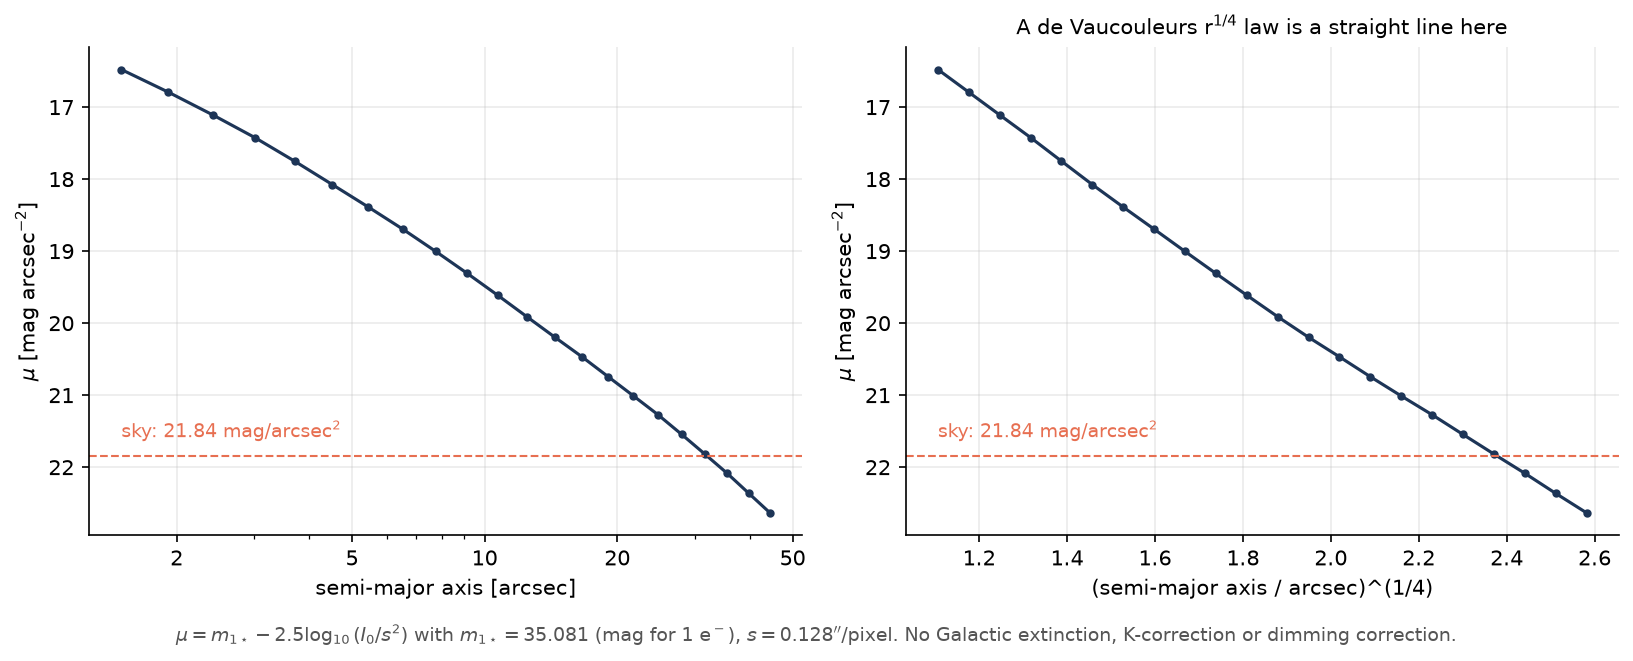
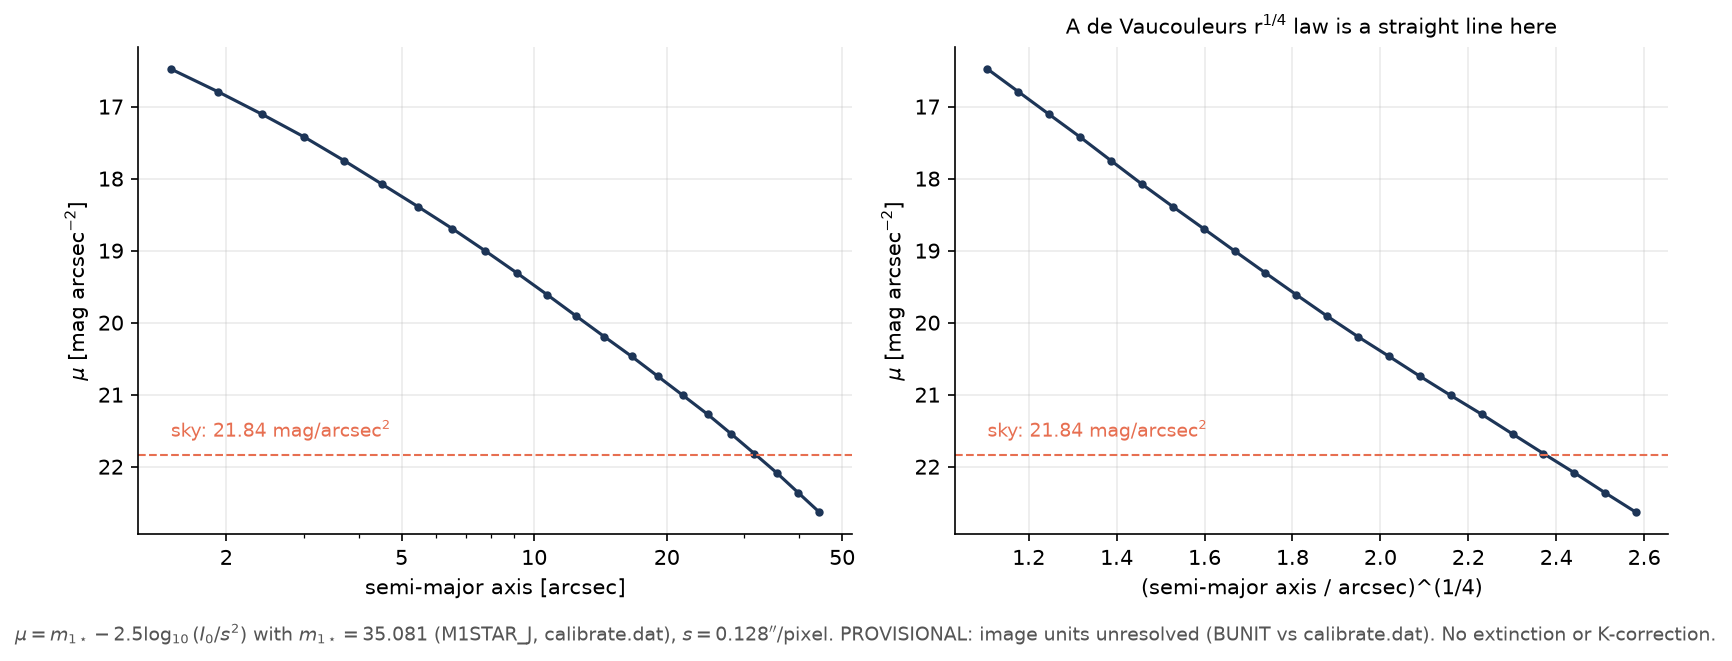
Docs: document ELLIPROF's published role in SBF analyses; flag example units
Cite Jordan et al. 2004, Mei et al. 2005a and Jensen et al. 2021, which
state that ELLIPROF produced the smooth galaxy models in their SBF
analyses and identify it as the isophote-fitting software of the Tonry
et al. 1997 SBF survey. Keep the scope boundary: the power spectrum,
contaminant corrections, calibration and distance are downstream steps.
Mark the UGC 12517 surface-brightness calibration as provisional: the
image BUNIT and calibrate.dat disagree about the pixel units.

diff --git a/docs/scripts/make_profile_plots.py b/docs/scripts/make_profile_plots.py
@@ -6,8 +6,11 @@ level on the outer profile.
 
 The calibration numbers come from examples/u12517/calibrate.dat (from the
 original analysis; elliprof itself does not read that file):
-    SECPIX = 0.128 arcsec/pixel,  M1STAR = 35.081 mag for 1 e- (net),
-    SKY = 3250 e/pixel (21.84 mag/arcsec^2).
+    SECPIX = 0.128 arcsec/pixel,  M1STAR_J = 35.081 ("m for 1e- net"),
+    SKY_J = 3250 ("e/pixel"), SKYMAG_J = 21.84 mag/arcsec^2.
+PROVISIONAL: the image header says BUNIT = ELECTRONS/S, while these numbers
+are consistent with pixel values in total electrons.  Unresolved; see
+docs/science/surface-photometry.md.
 """
 
 import matplotlib.pyplot as plt
@@ -82,8 +85,9 @@ def surface_brightness():
     axes[1].set_title("A de Vaucouleurs r$^{1/4}$ law is a straight line here",
                       fontsize=10)
     fig.text(0.5, -0.03, r"$\mu = m_{1\star} - 2.5\log_{10}(I_0 / s^2)$ with "
-             r"$m_{1\star}=35.081$ (mag for 1 e$^-$), $s = 0.128''$/pixel. "
-             "No Galactic extinction, K-correction or dimming correction.",
+             r"$m_{1\star}=35.081$ (M1STAR_J, calibrate.dat), "
+             r"$s = 0.128''$/pixel. PROVISIONAL: image units unresolved "
+             "(BUNIT vs calibrate.dat). No extinction or K-correction.",
              ha="center", fontsize=9, color="#555555")
     fig.tight_layout()
     C.save(fig, "surface_brightness_u12517.png")

diff --git a/docs/sbf/history.md b/docs/sbf/history.md
@@ -38,7 +38,8 @@ connecting $\bar M$ to age and metallicity.
 
 **HST/ACS (2005–2010).** John Blakeslee and collaborators brought SBF to
 the Advanced Camera for Surveys. They set out the reduction procedures
-and calibration (Mei et al. 2005a, 2005b), mapped the 3-D structure of the
+(Jordán et al. 2004; Mei et al. 2005a) and calibration (Mei et al.
+2005b), mapped the 3-D structure of the
 Virgo cluster (Mei et al. 2007), measured the Fornax–Virgo relative
 distance precisely (Blakeslee et al. 2009), and calibrated the F814W
 bandpass (Blakeslee et al. 2010).
@@ -59,12 +60,36 @@ distances for bright galaxies in Virgo and beyond (Cantiello et al.
 describe an approved JWST program to tie the SBF zeropoint to
 tip-of-the-red-giant-branch distances.
 
-!!! note "ELLIPROF history is separate"
-    ELLIPROF was originally developed by John Tonry as part of MONSTA, an
-    image-analysis package. This page is the history of the SBF
-    *method*. It does not imply that any particular study above used
-    ELLIPROF. See [About and credits](../about.md) for ELLIPROF's own
-    history.
+## ELLIPROF in SBF analyses
+
+ELLIPROF, originally developed by John Tonry as part of MONSTA, has been
+used as the galaxy-modelling component of SBF analyses. It fits and
+subtracts the smooth galaxy light, producing the galaxy-subtracted image
+that the SBF processing then works on. It does not itself measure the
+fluctuations or the distance. The evidence, in the papers' own words:
+
+- Tonry et al. (1997), the I-band SBF Survey, describe the step without
+  naming the program: "we fit a galaxy model to the summed, cleaned,
+  sky-subtracted galaxy image and subtract it".
+- Jordán et al. (2004), ACS Virgo Cluster Survey II: "Galaxies were
+  modeled using the ELLIPROF program described in the SBF survey of
+  Tonry et al. (1997)."
+- Mei et al. (2005a), ACS Virgo Cluster Survey IV: "We fit a smooth model
+  for each galaxy in both filters using ELLIPROF (the isophotal fitting
+  software that has been used for the SBF survey by Tonry et al. 1997)
+  and then subtract the models from the original images."
+- Jensen et al. (2021), infrared SBF distances with HST/WFC3: "We made an
+  elliptical model of each galaxy using the ELLIPROF routine"; after
+  background subtraction the galaxies were fitted "using the ELLIPROF
+  isophotal fitting routine a second time", and the models were saved
+  "to normalize the SBF power spectrum". The paper lists ELLIPROF among
+  its software.
+
+Quotations are from the arXiv versions of these papers
+(astro-ph/9609113, astro-ph/0406433, astro-ph/0501325, 2105.08299).
+Other papers on this page are not claimed to have used ELLIPROF unless
+listed here. See [ELLIPROF's role in SBF](elliprof-role.md) and
+[About and credits](../about.md).
 
 ## References
 
@@ -82,7 +107,7 @@ records.
 - Tonry, J. L., Ajhar, E. A. & Luppino, G. A. 1990, *Observations of surface-brightness fluctuations in Virgo*, AJ, 100, 1416. [doi:10.1086/115606](https://doi.org/10.1086/115606)
 - Tonry, J. L. 1991, *Surface brightness fluctuations: a bridge from M31 to the Hubble constant*, ApJ, 373, L1. [doi:10.1086/186037](https://doi.org/10.1086/186037)
 - Ajhar, E. A. & Tonry, J. L. 1994, *Surface brightness fluctuations in globular clusters and stellar populations in galaxies*, ApJ, 429, 557. [doi:10.1086/174344](https://doi.org/10.1086/174344)
-- Tonry, J. L., Blakeslee, J. P., Ajhar, E. A. & Dressler, A. 1997, *The SBF Survey of Galaxy Distances. I.*, ApJ, 475, 399. [doi:10.1086/303576](https://doi.org/10.1086/303576)
+- Tonry, J. L., Blakeslee, J. P., Ajhar, E. A. & Dressler, A. 1997, *The SBF Survey of Galaxy Distances. I. Sample Selection, Photometric Calibration, and the Hubble Constant*, ApJ, 475, 399. [doi:10.1086/303576](https://doi.org/10.1086/303576) (arXiv:astro-ph/9609113)
 - Tonry, J. L., Blakeslee, J. P., Ajhar, E. A. & Dressler, A. 2000, *The Surface Brightness Fluctuation Survey of Galaxy Distances. II. Local and Large-Scale Flows*, ApJ, 530, 625. [doi:10.1086/308409](https://doi.org/10.1086/308409)
 - Tonry, J. L., Dressler, A., Blakeslee, J. P., et al. 2001, *The SBF Survey of Galaxy Distances. IV. SBF Magnitudes, Colors, and Distances*, ApJ, 546, 681. [doi:10.1086/318301](https://doi.org/10.1086/318301)
 
@@ -94,12 +119,13 @@ records.
 - Jensen, J. B., Tonry, J. L., Thompson, R. I., et al. 2001, *The Infrared Surface Brightness Fluctuation Hubble Constant*, ApJ, 550, 503. [doi:10.1086/319819](https://doi.org/10.1086/319819)
 - Jensen, J. B., Tonry, J. L., Barris, B. J., et al. 2003, *Measuring Distances and Probing the Unresolved Stellar Populations of Galaxies Using Infrared Surface Brightness Fluctuations*, ApJ, 583, 712. [doi:10.1086/345430](https://doi.org/10.1086/345430)
 - Jensen, J. B., Blakeslee, J. P., Gibson, Z., et al. 2015, *Measuring Infrared Surface Brightness Fluctuation Distances with HST WFC3: Calibration and Advice*, ApJ, 808, 91. [doi:10.1088/0004-637X/808/1/91](https://doi.org/10.1088/0004-637X/808/1/91)
-- Jensen, J. B., Blakeslee, J. P., Ma, C.-P., et al. 2021, *Infrared Surface Brightness Fluctuation Distances for MASSIVE and Type Ia Supernova Host Galaxies*, ApJS, 255, 21. [doi:10.3847/1538-4365/ac01e7](https://doi.org/10.3847/1538-4365/ac01e7)
+- Jensen, J. B., Blakeslee, J. P., Ma, C.-P., et al. 2021, *Infrared Surface Brightness Fluctuation Distances for MASSIVE and Type Ia Supernova Host Galaxies*, ApJS, 255, 21. [doi:10.3847/1538-4365/ac01e7](https://doi.org/10.3847/1538-4365/ac01e7) (arXiv:2105.08299)
 
 **Stellar populations, HST/ACS and the Hubble constant (Blakeslee and collaborators)**
 
 - Blakeslee, J. P., Vazdekis, A. & Ajhar, E. A. 2001, *Stellar populations and surface brightness fluctuations: new observations and models*, MNRAS, 320, 193. [doi:10.1046/j.1365-8711.2001.03937.x](https://doi.org/10.1046/j.1365-8711.2001.03937.x)
-- Mei, S., Blakeslee, J. P., Tonry, J. L., et al. 2005a, *The ACS Virgo Cluster Survey. IV. Data Reduction Procedures for Surface Brightness Fluctuation Measurements with the Advanced Camera for Surveys*, ApJS, 156, 113. [doi:10.1086/426544](https://doi.org/10.1086/426544)
+- Jordán, A., Blakeslee, J. P., Peng, E. W., et al. 2004, *The ACS Virgo Cluster Survey. II. Data Reduction Procedures*, ApJS, 154, 509. [doi:10.1086/422977](https://doi.org/10.1086/422977) (arXiv:astro-ph/0406433)
+- Mei, S., Blakeslee, J. P., Tonry, J. L., et al. 2005a, *The ACS Virgo Cluster Survey. IV. Data Reduction Procedures for Surface Brightness Fluctuation Measurements with the Advanced Camera for Surveys*, ApJS, 156, 113. [doi:10.1086/426544](https://doi.org/10.1086/426544) (arXiv:astro-ph/0501325)
 - Mei, S., Blakeslee, J. P., Tonry, J. L., et al. 2005b, *The ACS Virgo Cluster Survey. V. Surface Brightness Fluctuation Calibration for Giant and Dwarf Early-Type Galaxies*, ApJ, 625, 121. [doi:10.1086/429554](https://doi.org/10.1086/429554)
 - Mei, S., Blakeslee, J. P., Côté, P., et al. 2007, *The ACS Virgo Cluster Survey. XIII. SBF Distance Catalog and the Three-dimensional Structure of the Virgo Cluster*, ApJ, 655, 144. [doi:10.1086/509598](https://doi.org/10.1086/509598)
 - Blakeslee, J. P., Jordán, A., Mei, S., et al. 2009, *The ACS Fornax Cluster Survey. V. Measurement and Recalibration of Surface Brightness Fluctuations and a Precise Value of the Fornax–Virgo Relative Distance*, ApJ, 694, 556. [doi:10.1088/0004-637X/694/1/556](https://doi.org/10.1088/0004-637X/694/1/556)

diff --git a/docs/sbf/elliprof-role.md b/docs/sbf/elliprof-role.md
@@ -17,6 +17,51 @@ ELLIPROF is one component of an SBF measurement: the galaxy model, and
 through it the residual. The rest is done by other software and by the
 researcher, and needs judgement that no single program should hide.
 
+## ELLIPROF in published SBF analyses
+
+ELLIPROF has historically been used as the **galaxy-modelling component**
+of surface brightness fluctuation analyses. It fits and subtracts the
+smooth galaxy light distribution, producing the galaxy-subtracted image
+used in the subsequent SBF processing. The power-spectrum measurement,
+the contaminant corrections, the calibration and the distance
+determination are separate, downstream steps.
+
+The published record:
+
+- **The I-band SBF Survey.** Tonry et al. (1997) describe the step as
+  fitting "a galaxy model to the summed, cleaned, sky-subtracted galaxy
+  image" and subtracting it. The ACS Virgo Cluster Survey papers identify
+  that software as ELLIPROF. Jordán et al. (2004) write that "galaxies
+  were modeled using the ELLIPROF program described in the SBF survey of
+  Tonry et al. (1997)". Mei et al. (2005a) call ELLIPROF "the isophotal
+  fitting software that has been used for the SBF survey by Tonry et al.
+  1997".
+- **The ACS Virgo Cluster Survey (HST/ACS).** Jordán et al. (2004) and
+  Mei et al. (2005a) fitted a smooth model to each galaxy with ELLIPROF
+  and subtracted it. They then removed the remaining large-scale
+  residuals with a SExtractor background model before detecting sources
+  and measuring the SBF.
+- **Infrared SBF with HST/WFC3 (the MASSIVE and Type Ia supernova host
+  galaxies).** Jensen et al. (2021) made an elliptical model of each
+  galaxy "using the ELLIPROF routine", first to help determine the
+  background level and then, after background subtraction, as the smooth
+  galaxy model. They saved that model "for later use to normalize the SBF
+  power spectrum", and list ELLIPROF among the software used.
+
+In all of these, ELLIPROF supplies the galaxy model. The SBF measurement
+itself is the downstream chain described on
+[Power spectrum and distance](power-spectrum.md) and
+[Workflow and cautions](workflow.md). The full references are on
+[History and references](history.md#elliprof-in-sbf-analyses).
+
+!!! note "The same program"
+    The `elliprof` package runs the original ELLIPROF fitting and model
+    code, compiled unchanged (see
+    [How elliprof is built](../reference/architecture.md)). The published
+    analyses above used ELLIPROF within their own pipelines and
+    environments. This package makes the same fitting and model code
+    available on its own. It does not reproduce those pipelines.
+
 ## Why the galaxy model matters
 
 The fluctuations are tiny compared with the galaxy itself. In the
@@ -35,10 +80,13 @@ less. Before they can be measured, the smooth galaxy must be removed
 
 A model built from fitted isophotes follows the galaxy's changing
 ellipticity, orientation and boxy/disky shape with radius, so it
-removes the galaxy closely. How SBF studies build and subtract their
-galaxy models is described in their data-reduction papers, for example
-Mei et al. (2005a) for HST/ACS and Jensen et al. (2015) for HST/WFC3-IR.
-See [History and references](history.md).
+removes the galaxy closely. The published analyses above also describe
+where such models fall short: Jordán et al. (2004) report that for seven
+galaxies with strong disk components ELLIPROF could not produce
+acceptable models. Jensen et al. (2021) fitted the remaining residual
+patterns (from neighbouring galaxies, dust lanes, shells, spiral
+structure or bars) with a spline and avoided the affected regions and
+low wavenumbers.
 
 !!! advanced "Model harmonics and the residual"
     Include the 3rd- and 4th-order terms in the model (the default,

diff --git a/docs/science/surface-photometry.md b/docs/science/surface-photometry.md
@@ -40,14 +40,29 @@ from the original analysis (elliprof does not read it):
 | | |
 |---|---|
 | pixel scale $s$ | 0.128″ / pixel |
-| $m_1$ for 1 electron (`M1STAR`) | 35.081 mag |
-| sky (`SKY`) | 3250 e / pixel = 21.84 mag arcsec⁻² (`SKYMAG`) |
+| `M1STAR_J` ("m for 1e- net") | 35.081 mag |
+| `M1_J` ("m for 1 e/sec") | 26.822 mag |
+| `ETIME_J` (exposure time) | 2011.7 s |
+| `SKY_J` ("e/pixel") | 3250 |
+| `SKYMAG_J` | 21.84 mag arcsec⁻² |
 
-These are consistent with each other:
-35.081 − 2.5 log₁₀(3250 / 0.128²) = 21.84. So the pixel values are
-electrons, although the image's `BUNIT` says `ELECTRONS/S`. (Its
-`M1_J` = 26.822 for 1 e/s plus 2.5 log₁₀ of the 2011.7 s exposure gives
-the same 35.081.)
+!!! warning "Unresolved: the units of the example image"
+    The image header and the calibration file do not agree on the units
+    of the pixel values.
+
+    - The FITS header says `BUNIT = 'ELECTRONS/S'`.
+    - Within `calibrate.dat`, the numbers agree with each other if the
+      pixel values are **total electrons**: 26.822 + 2.5 log₁₀(2011.7) =
+      35.081 (`M1_J` converted to `M1STAR_J`), and
+      35.081 − 2.5 log₁₀(3250 / 0.128²) = 21.84 (`SKY_J` converted to
+      `SKYMAG_J`). The sky level subtracted in the example (3246) is also
+      close to `SKY_J` (3250).
+
+    This has not been resolved. The calibrated profile below applies
+    `M1STAR_J` = 35.081 to the pixel values as they are. It is correct only
+    if the pixels are total electrons. If they are electrons per second,
+    the zeropoint is `M1_J` = 26.822, and every μ below would be 8.26 mag
+    smaller (brighter). Treat the calibrated numbers on this site as provisional.
 
 <figure markdown="span">
   ![Two plots of the surface brightness of UGC 12517 in magnitudes per
@@ -57,7 +72,8 @@ the same 35.081.)
   nearly a straight line. A dashed line marks the sky brightness, 21.84
   mag per square arcsecond, which the profile crosses at about 32
   arcseconds.](../assets/surface_brightness_u12517.png)
-  <figcaption>The calibrated UGC 12517 profile. Against r<sup>1/4</sup> it is
+  <figcaption>The UGC 12517 profile calibrated with <code>M1STAR_J</code> = 35.081
+  (provisional: see the units warning above). Against r<sup>1/4</sup> it is
   nearly straight, as for a de Vaucouleurs law. Beyond ~32″ the galaxy is
   fainter than the sky. No extinction or K-correction is applied.</figcaption>
 </figure>

diff --git a/docs/tutorials/u12517.md b/docs/tutorials/u12517.md
@@ -91,7 +91,7 @@ centres.
 ## 6. Calibrate
 
 With the calibration from the original analysis
-(`examples/u12517/calibrate.dat`: 35.081 mag for 1 electron, 0.128″
+(`examples/u12517/calibrate.dat`: `M1STAR_J` = 35.081 mag, 0.128″
 pixels), the surface brightness is
 
 $$ \mu = 35.081 - 2.5\log_{10}\!\left(\frac{I_0}{0.128^2}\right). $$
@@ -100,12 +100,15 @@ $$ \mu = 35.081 - 2.5\log_{10}\!\left(\frac{I_0}{0.128^2}\right). $$
   ![The calibrated surface-brightness profile of UGC 12517, against log
   radius and against radius to the one-quarter power, with the sky level
   marked.](../assets/surface_brightness_u12517.png)
-  <figcaption>The profile in mag/arcsec² (no extinction or K-correction). It
-  is close to an r<sup>1/4</sup> law.</figcaption>
+  <figcaption>The profile in mag/arcsec² with M1STAR_J = 35.081, provisional
+  (no extinction or K-correction). It is close to an r<sup>1/4</sup> law.</figcaption>
 </figure>
 
-See [Galaxy surface photometry](../science/surface-photometry.md) for the
-units check behind the 35.081.
+!!! warning "Provisional calibration"
+    The image header (`BUNIT = 'ELECTRONS/S'`) and `calibrate.dat` (whose
+    numbers are consistent with pixel values in total electrons) disagree
+    about the units. This is unresolved. See
+    [Galaxy surface photometry](../science/surface-photometry.md#worked-example-ugc-12517).
 
 ## 7. Test the sky
 

diff --git a/docs/about.md b/docs/about.md
@@ -27,9 +27,13 @@ The original source files keep their authorship: `elliprof.f`,
 support files by Tod R. Lauer and Richard J. Stover. See
 [THIRD_PARTY_NOTICES.md](https://github.com/ekourkchi/elliprof/blob/main/THIRD_PARTY_NOTICES.md).
 
-For the history of the surface brightness fluctuation *method*, see
-[SBF history and references](sbf/history.md). The two histories are
-separate.
+ELLIPROF has been used as the galaxy-modelling component of surface
+brightness fluctuation (SBF) analyses, from the I-band SBF Survey of
+Tonry et al. (1997) to HST studies (Jordán et al. 2004; Mei et al.
+2005a; Jensen et al. 2021). In those analyses it produced the smooth
+galaxy model and the galaxy-subtracted image. The fluctuation measurement
+and the distances came from separate, downstream steps. See
+[ELLIPROF in SBF analyses](sbf/history.md#elliprof-in-sbf-analyses).
 
 ## Licence
 

diff --git a/docs/sbf/index.md b/docs/sbf/index.md
@@ -12,7 +12,8 @@ lies beyond it.
 
 <div class="scope-box" markdown>
 **ELLIPROF is not an SBF pipeline.** It supplies the smooth galaxy model
-and the residual image that an SBF measurement starts from. Everything
+and the residual image that an SBF measurement starts from, the role it
+has had in published SBF analyses since the I-band SBF Survey. Everything
 after that (the power spectrum, the corrections for globular clusters
 and background galaxies, the calibration and the distance) is done by
 other software and by the researcher. See
